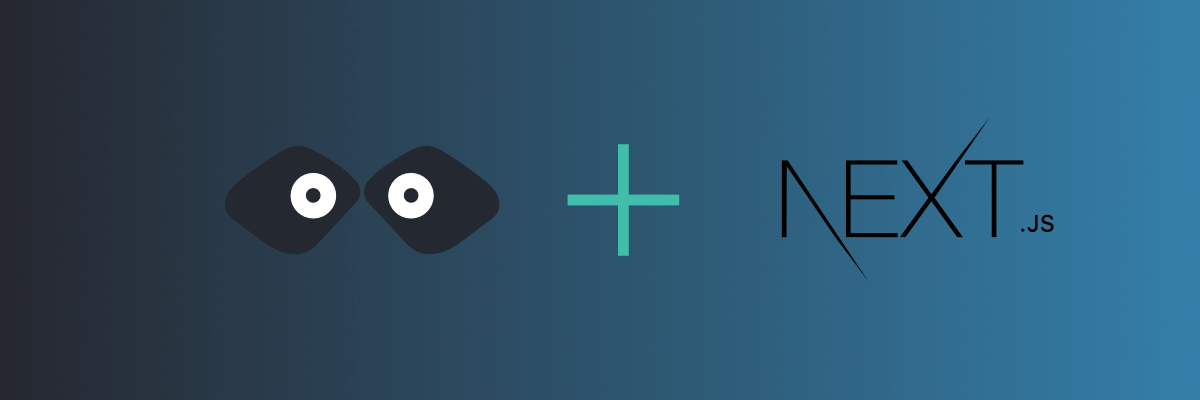
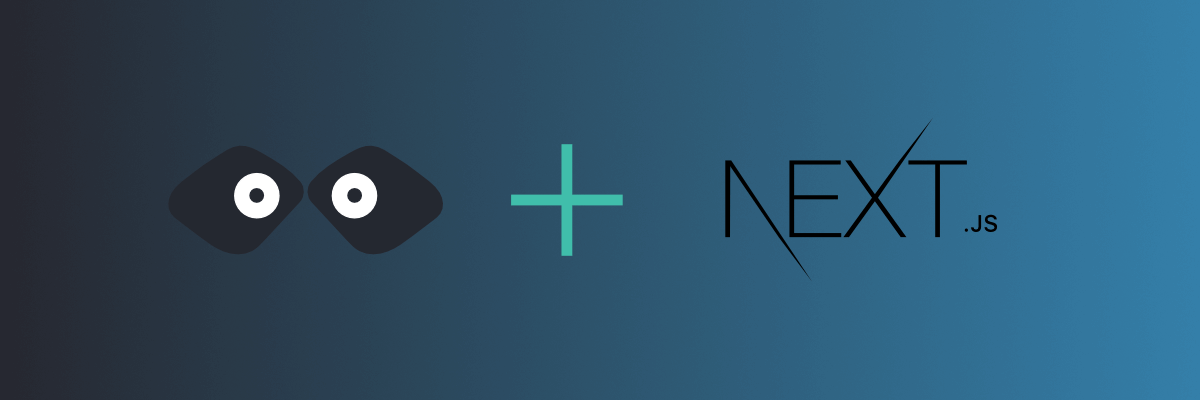
Add React tutorial, fix tutorial images

Changed region(s): [[0.185, 0.36, 0.8633, 0.66], [0.8633, 0.54, 0.8942, 0.57]]

diff --git a/content/tutorials/react-api-call-and-mocking.md b/content/tutorials/react-api-call-and-mocking.md
@@ -1,0 +1,121 @@
+---
+title: Call a REST API from your React application
+excerpt: Learn how to call a REST API from your React application service and mock it using Mockoon API mocking tools
+meta:
+  title: Call an API from your React application
+  description: Learn how to call a REST API from your React application service and mock it using Mockoon API mocking tools
+image: tutorial-react-api-call.png
+imageAlt: Mockoon and React logos side by side
+order: 93
+---
+
+This guide will teach you how to call any REST API from a React application create with the [Create React App](https://reactjs.org/docs/create-a-new-react-app.html#create-react-app) package. If you already have an existing API that you want to call from your application, you can skip the first step, in which we will create a mock REST API using Mockoon.
+
+## 1. Create a mock API endpoint with Mockoon
+
+When working on your React application, you may need to mock an API is still under development, or that is only [partially available](docs:proxy-mode). The easiest way to start working without having to wait is to create a mock API using a tool like Mockoon. (Read more about the [benefits of API mocking](/use-cases/)).
+
+> To learn more about how to set up your first mock API with Mockoon, head over to the [Getting started tutorial](tutorials:getting-started).
+
+For the rest of the tutorial, we will use an array of fake blog posts with a single title. In Mockoon, create a `GET /posts` API endpoint that returns an array of blog posts:
+
+![create a mock API endpoint](/images/tutorials/blog-posts-mock-endpoint.png)
+
+You can use the following JSON as the body returned by the endpoint:
+
+```json
+[
+  {
+    "id": 1,
+    "title": "My first blog post"
+  },
+  {
+    "id": 2,
+    "title": "My second blog post"
+  }
+]
+```
+
+Note that your mock API will be available at the following URL: `http://localhost:3000`. It is the URL we will need to use in our React component.
+
+## 2. Make a call to the API endpoint in your React component
+
+After creating a mock REST API endpoint in Mockoon, you can now call it from your React component.
+To do so, we need to use an AJAX library or the browser's built-in [`window.fetch`](https://developer.mozilla.org/en-US/docs/Web/API/Fetch_API) function. We will be using the `fetch` function as it is available in most browsers.
+
+You will find below the minimal code needed to call our API endpoint with the `fetch` function:
+
+```javascript
+fetch('http://localhost:3002/posts')
+  .then((res) => res.json())
+  .then((result) => {
+    // we received our list of posts
+    console.log(result);
+  });
+```
+
+We need to integrate this code into a React component. We will reuse the `App` component which was automatically created by Create React App. However, we need to wrap this piece of code in a `useEffect` function in order to refresh the UI when our blog posts are fetched:
+
+```javascript
+import { useEffect } from 'react';
+
+function App() {
+  const [posts, setPosts] = useState([]);
+
+  useEffect(() => {
+    fetch('http://localhost:3002/posts')
+      .then((res) => res.json())
+      .then((result) => {
+        setPosts(result);
+      });
+  }, []);
+
+  return <ul>{/* TODO */}</ul>;
+}
+
+export default App;
+```
+
+Note that we also stored the call result (our blog posts) in a state called `posts`.
+
+## 3. Use the `posts` state variable in your component JSX
+
+We can now render our blog posts on the page as `<li>` using a simple `map` loop:
+
+```javascript
+return (
+  <ul>
+    {posts.map((post) => (
+      <li key={post.id}>{post.title}</li>
+    ))}
+  </ul>
+);
+```
+
+Putting all this code together, we get a fully functional component loading asynchronous mock data:
+
+```javascript
+import { useEffect } from 'react';
+
+function App() {
+  const [posts, setPosts] = useState([]);
+
+  useEffect(() => {
+    fetch('http://localhost:3002/posts')
+      .then((res) => res.json())
+      .then((result) => {
+        setPosts(result);
+      });
+  }, []);
+
+  return (
+    <ul>
+      {posts.map((post) => (
+        <li key={post.id}>{post.title}</li>
+      ))}
+    </ul>
+  );
+}
+
+export default App;
+```

diff --git a/content/tutorials/angular-api-call-and-mocking.md b/content/tutorials/angular-api-call-and-mocking.md
@@ -13,13 +13,13 @@ In this guide, we will learn how to call a REST API from an Angular application.
 
 ## 1. Create a mock API endpoint with Mockoon
 
-During the development of your Angular application, you may need to mock an API that is not ready yet, or only partially available (see [partial mocking with the proxy mode](docs:proxy-mode)). For this, the easiest way is to create a mock API using a tool like Mockoon.
+During the development of your Angular application, you may need to mock an API that is not ready yet, or only partially available (see [partial mocking with the proxy mode](docs:proxy-mode)). For this, the easiest way is to create a mock API using a tool like Mockoon. (Read more about the [benefits of API mocking](/use-cases/)).
 
 > To learn more about how to set up your first mock API with Mockoon, head over to the [Getting started tutorial](tutorials:getting-started).
 
 For the rest of the tutorial, we will use an array of fake blog posts. In Mockoon, create a `GET /posts` API endpoint that returns an array of blog posts:
 
-![create a mock API endpoint](/images/tutorials/angular-api-call/blog-posts-mock-endpoint.png)
+![create a mock API endpoint](/images/tutorials/blog-posts-mock-endpoint.png)
 
 You can use the following JSON as the body returned by the endpoint:
 

diff --git a/content/tutorials/nextjs-api-call-and-mocking.md b/content/tutorials/nextjs-api-call-and-mocking.md
@@ -13,13 +13,13 @@ This guide will teach you how to call any REST API from your Next.js application
 
 ## 1. Create a mock API endpoint with Mockoon
 
-When working on your Next.js application, you may need to mock an API that doesn't exists yet, or is only partially available (see [partial mocking with the proxy mode](docs:proxy-mode)). For this, the easiest way is to create a mock API using a tool like Mockoon.
+When working on your Next.js application, you may need to mock an API that doesn't exists yet, or is only partially available (see [partial mocking with the proxy mode](docs:proxy-mode)). For this, the easiest way is to create a mock API using a tool like Mockoon. (Read more about the [benefits of API mocking](/use-cases/)).
 
 > To learn more about how to set up your first mock API with Mockoon, head over to the [Getting started tutorial](tutorials:getting-started).
 
 For the rest of the tutorial, we will use an array of fake blog posts. In Mockoon, create a `GET /posts` API endpoint that returns an array of blog posts:
 
-![create a mock API endpoint](/images/tutorials/angular-api-call/blog-posts-mock-endpoint.png)
+![create a mock API endpoint](/images/tutorials/blog-posts-mock-endpoint.png)
 
 You can use the following JSON as the body returned by the endpoint:
 

diff --git a/content/tutorials/nodejs-api-call-and-mocking.md b/content/tutorials/nodejs-api-call-and-mocking.md
@@ -15,7 +15,7 @@ If you already have an existing API that you want to use, you can skip the first
 
 ## 1. Create a mock API endpoint with Mockoon
 
-You may already have access to the internal or third-party API you want to call, but this is not always the case. The API may be under development or require account creation, and you may want to start working with it as soon as possible. For this, the easiest way is to create a mock API using a tool like Mockoon.
+You may already have access to the internal or third-party API you want to call, but this is not always the case. The API may be under development or require account creation, and you may want to start working with it as soon as possible. For this, the easiest way is to create a mock API using a tool like Mockoon. (Read more about the [benefits of API mocking](/use-cases/)).
 
 > To learn more about how to set up your first mock API with Mockoon, head over to the [Getting started tutorial](tutorials:getting-started).
 
